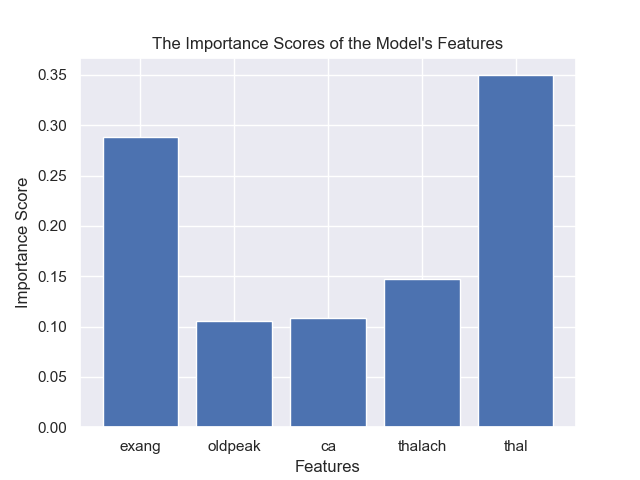
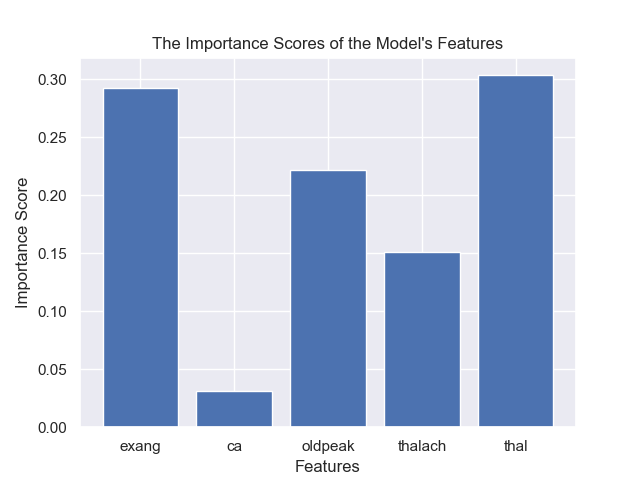
qdone

diff --git a/main.py b/main.py
@@ -70,13 +70,19 @@ def q1_best_features(candidates, labels):
     return feature_names
 
 
-def q1_name_later(data):
+def q1_model(data):
     """
+    Takes altered DataFrame.
+    Makes and trains a Machine Learning Model
+    based on the best features.
+
+    Plots a bar graph of important features and
+    plots DecisionTree.
+    Returns both plots and the accuracy scores of the model.
     """
     # making and training a model
     candidates = data.loc[:, data.columns != 'num']
     labels = data['num']
-
     feature_names = q1_best_features(candidates, labels)
     features = data.loc[:, feature_names]
 
@@ -127,7 +133,7 @@ def q2_plot(data):
 def main():
     data = pd.read_csv('cleveland.csv')
     q1_df = perform_data_filtering_q1(data)
-    print(q1_name_later(q1_df))
+    q1_model(q1_df)
     q2_df = perform_data_filtering_q2(data)
     q2_plot(q2_df)
 
